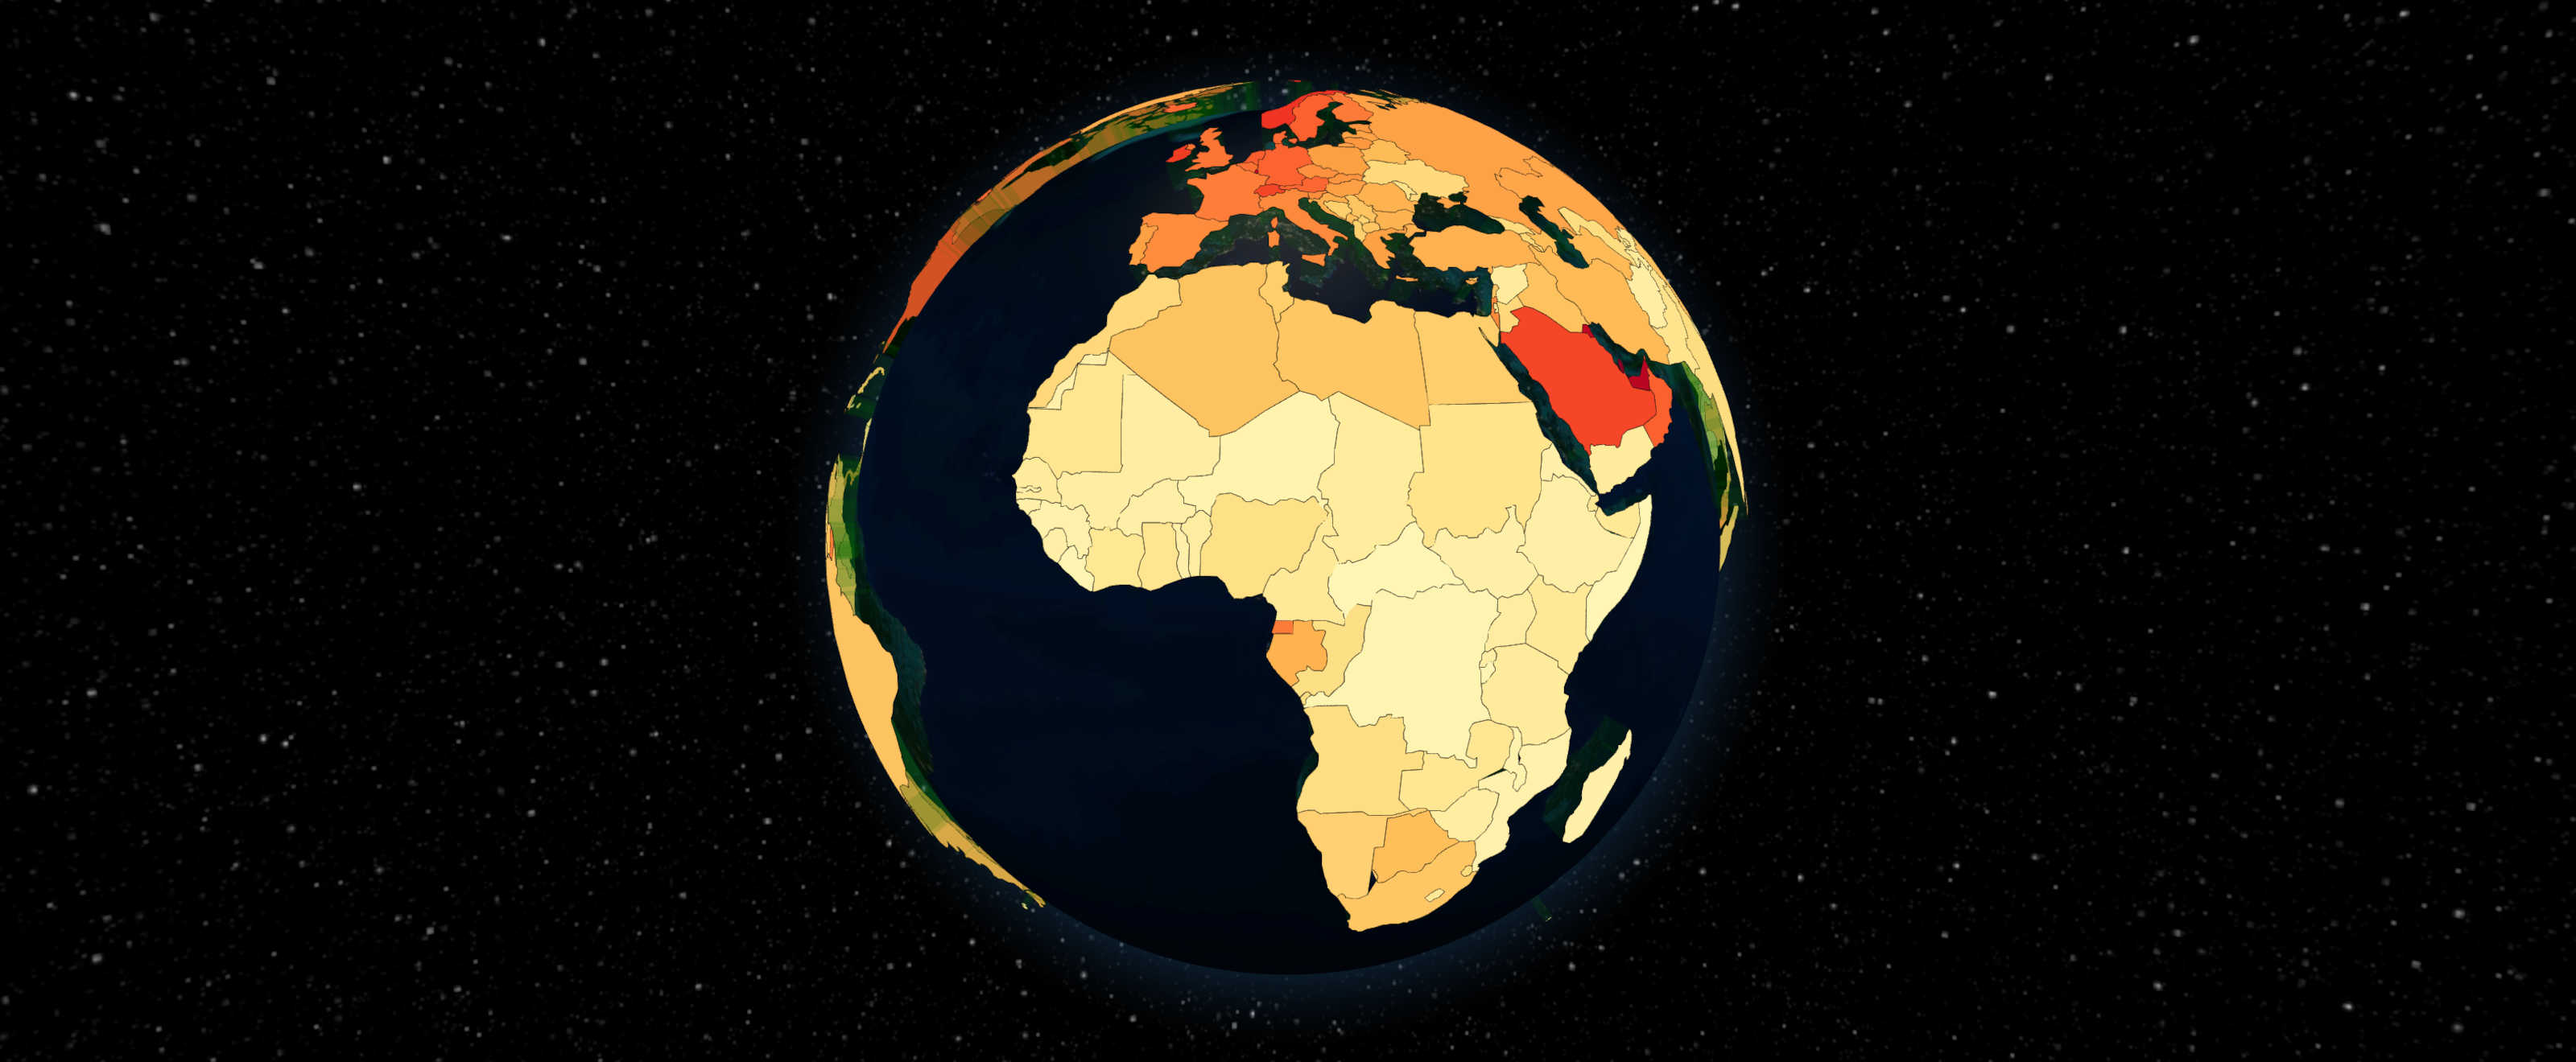
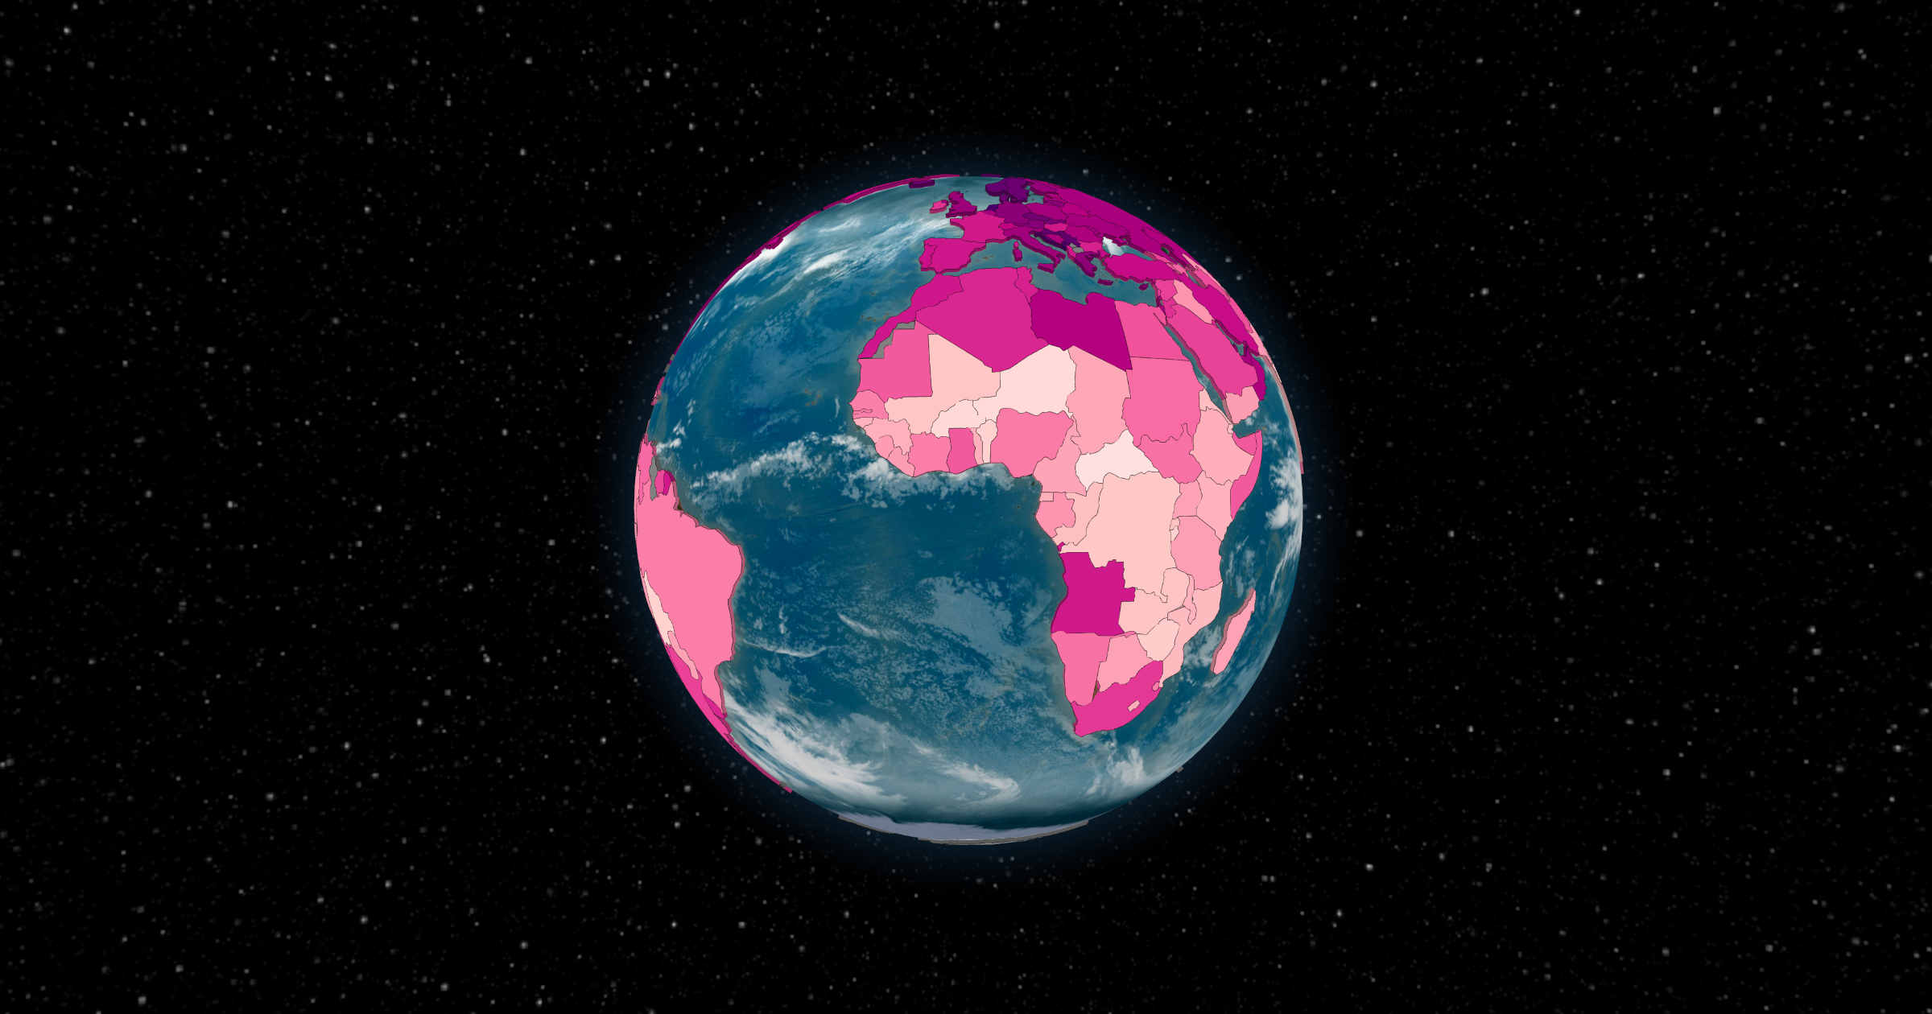
Update og:image

Changed region(s): [[0.3125, 0.0619, 0.6875, 0.9595]]

diff --git a/README.md b/README.md
@@ -2,6 +2,8 @@
 
 A web page that displays a world map, configured by data passed through the URL.
 
+![A screenshot of world-map.nathanfriend.io](./screenshot.jpg)
+
 ## Examples
 
 _Disclaimer: These are just for demonstration purposes! The data was generated by ChatGPT is almost certainly incorrect._
